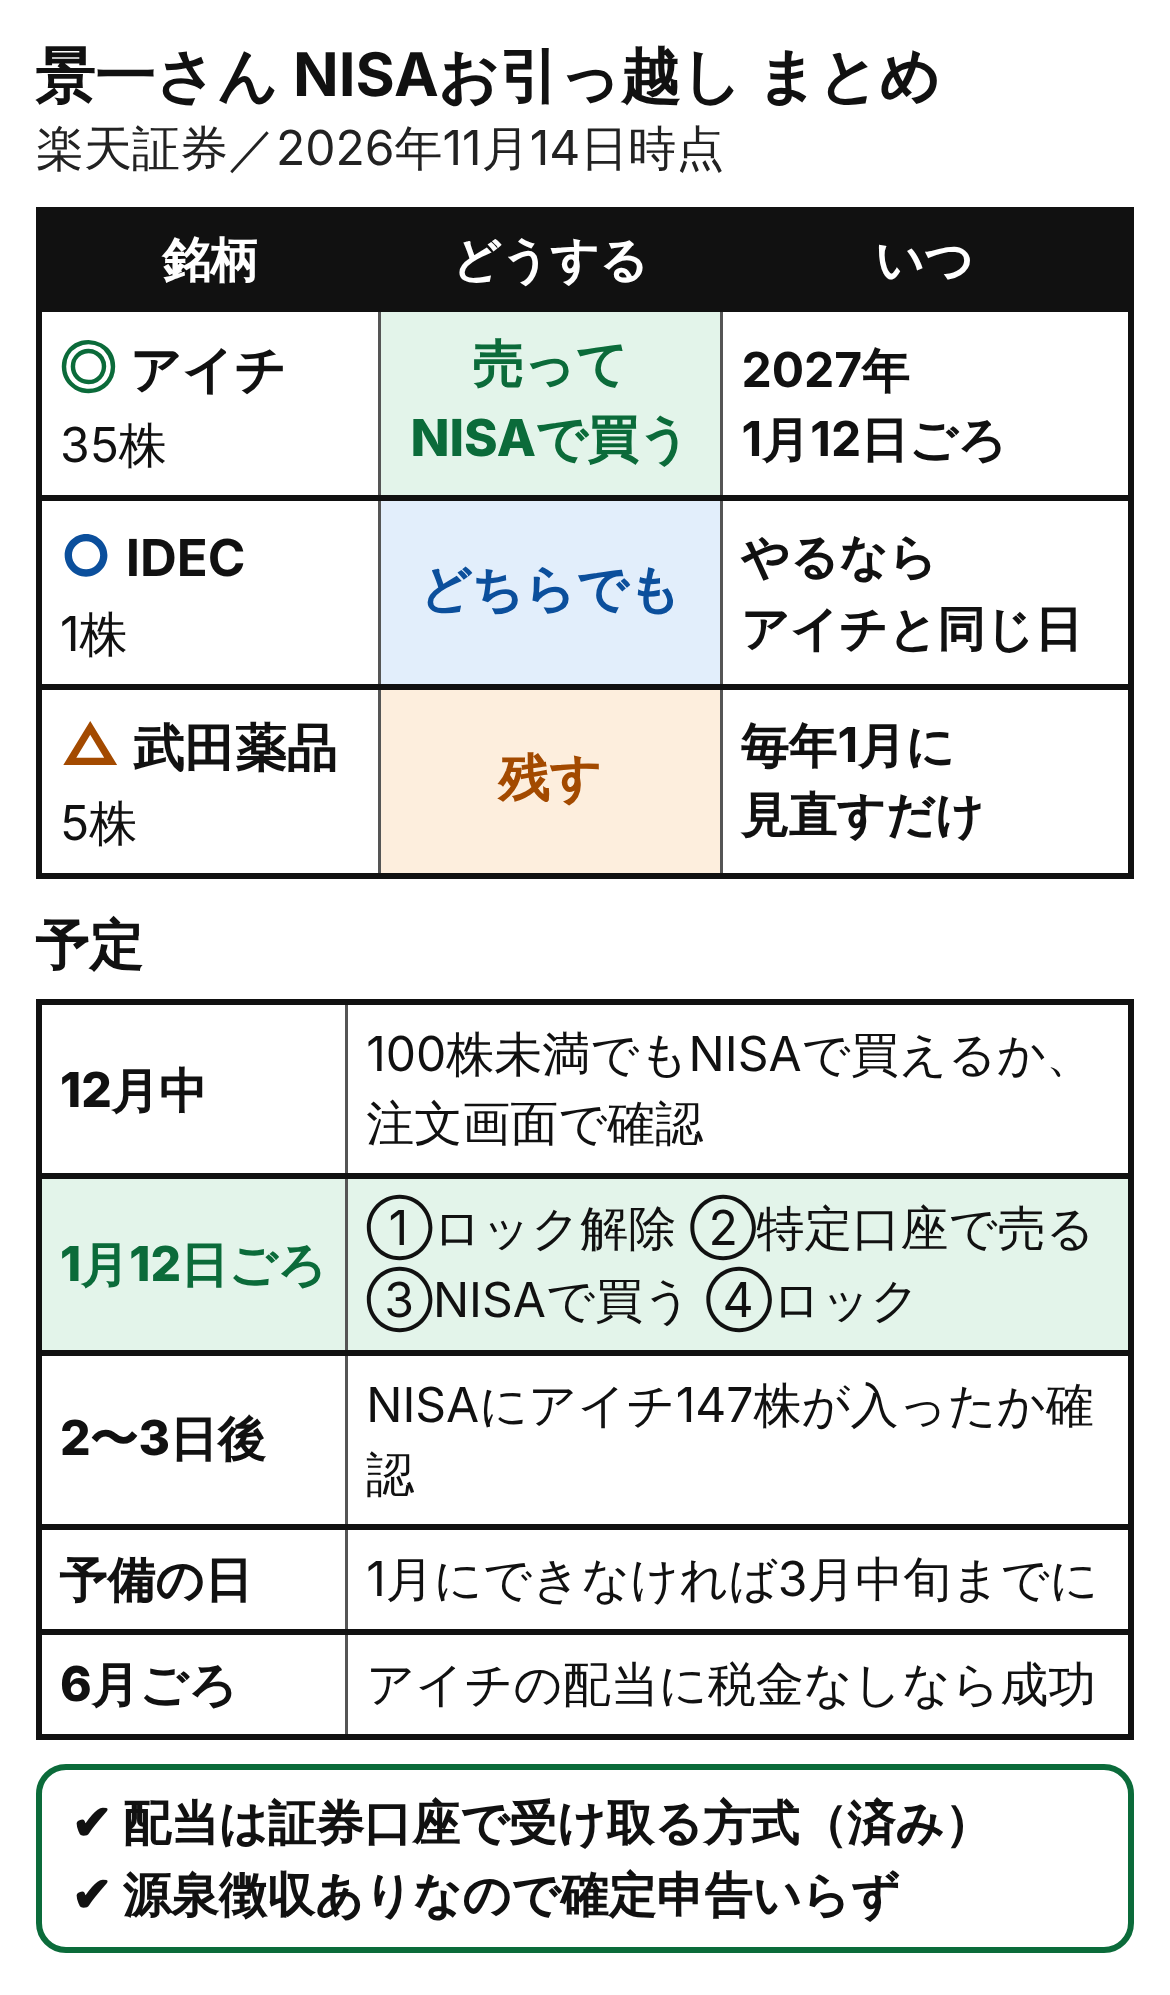
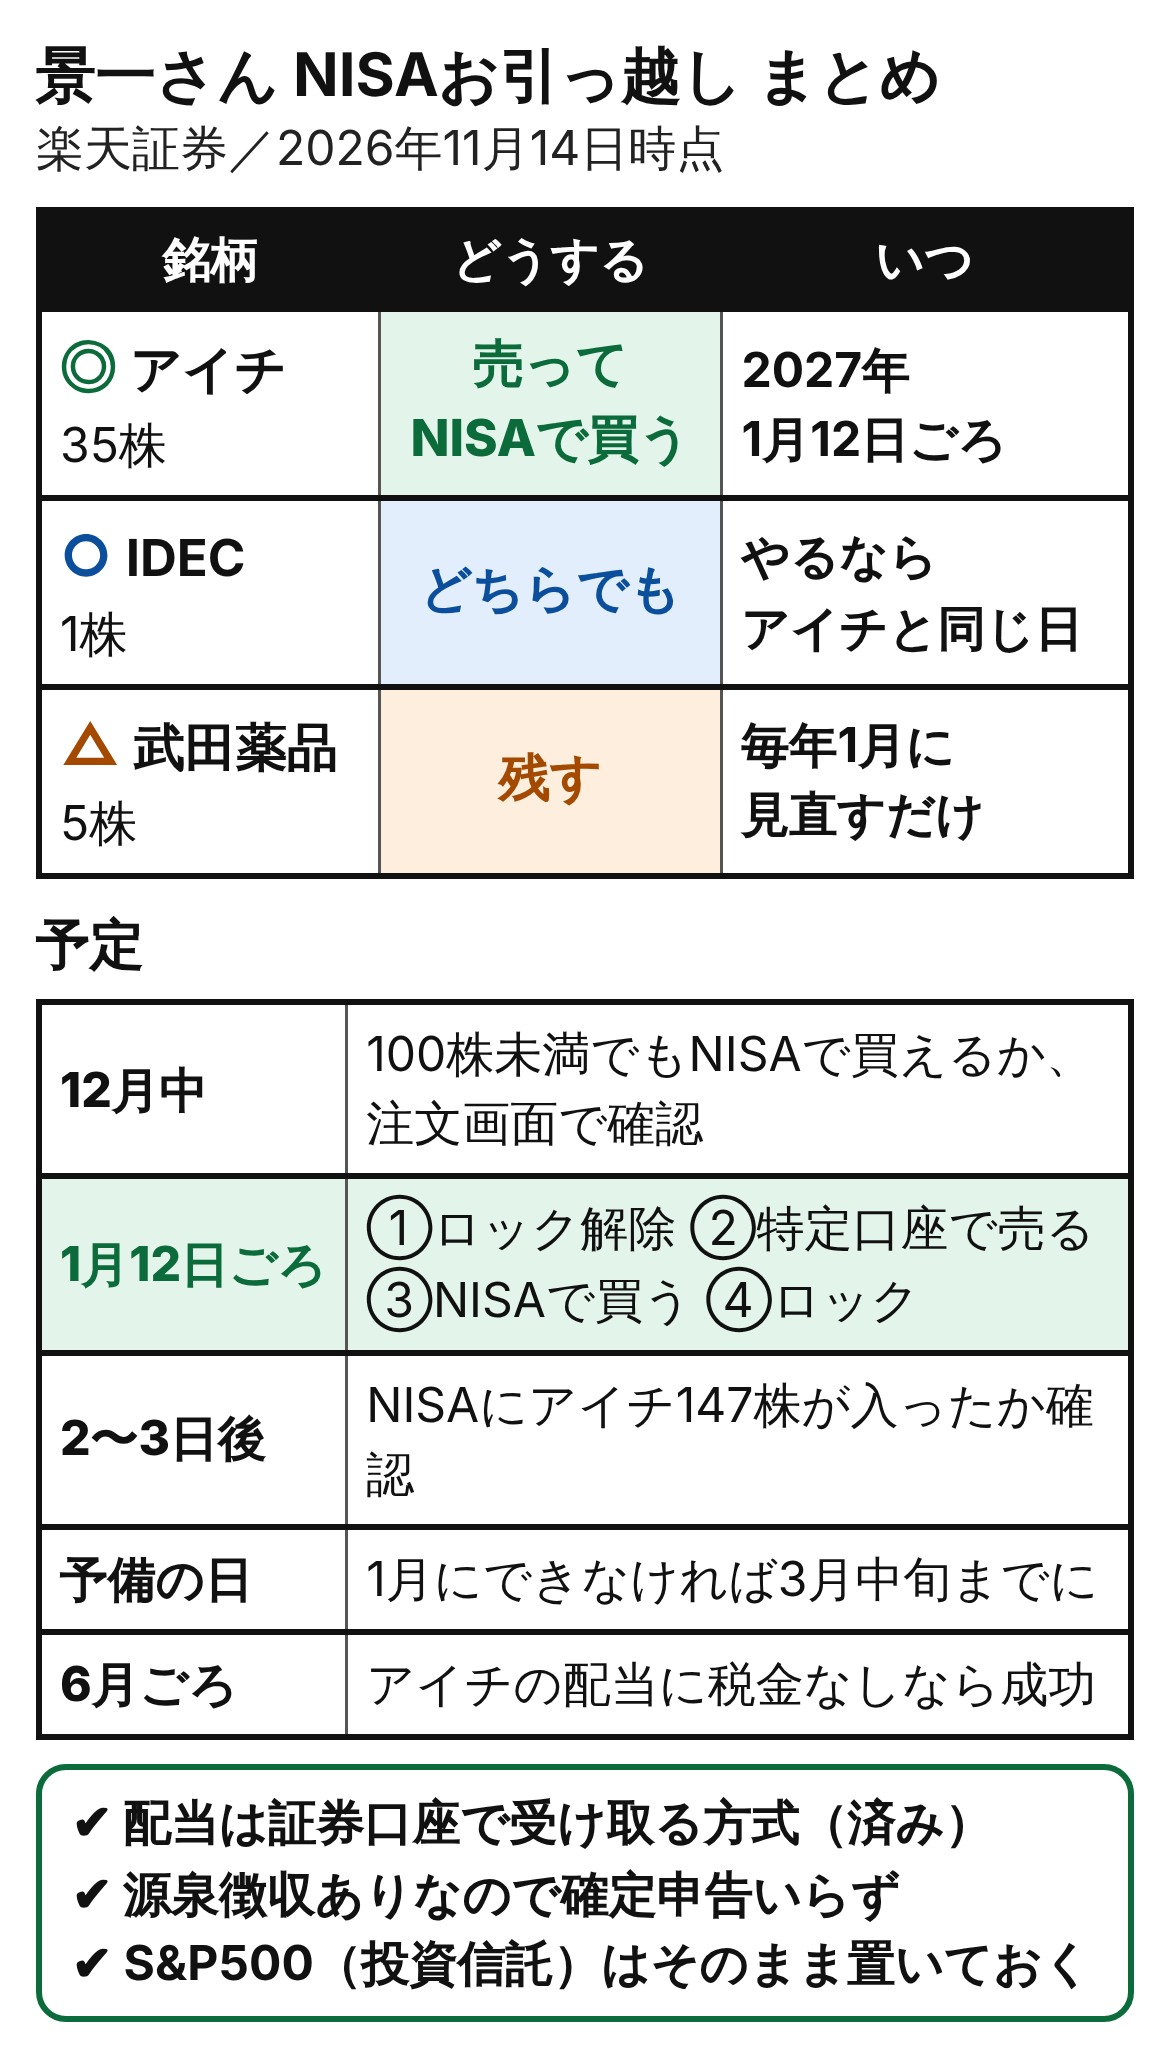
景一さんNISA：日本の個別株だけが対象、S&P500はそのままと明記
Claude-Session: https://claude.ai/code/session_01XUGyJhwiFxXAN9boSn8mWM

Changed region(s): [[0.0308, 0.0, 0.9846, 0.9634], [0.6462, 0.0311, 0.8, 0.0622], [0.9538, 0.4662, 0.9846, 0.4972]]

diff --git a/keiichi_nisa_hikkoshi.html b/keiichi_nisa_hikkoshi.html
@@ -186,6 +186,7 @@
 
   <h1>特定口座 → NISA成長投資枠<br>お引っ越し検討表</h1>
   <p class="sub">景一さん・楽天証券／2026年11月14日時点の株価</p>
+  <p class="memo" style="margin:0 0 20px">このページは、特定口座にある<b>日本の個別株3つだけ</b>です。S&amp;P500（投資信託）は特定口座にそのまま置いておきます。</p>
 
   <div class="ketsuron">
     <span class="label">さきに結論</span>

diff --git a/keiichi_nisa_matome.html b/keiichi_nisa_matome.html
@@ -78,6 +78,7 @@
   <div class="sumi">
     <div>✔ 配当は証券口座で受け取る方式（済み）</div>
     <div>✔ 源泉徴収ありなので確定申告いらず</div>
+    <div>✔ S&amp;P500（投資信託）はそのまま置いておく</div>
   </div>
 </div>
 
